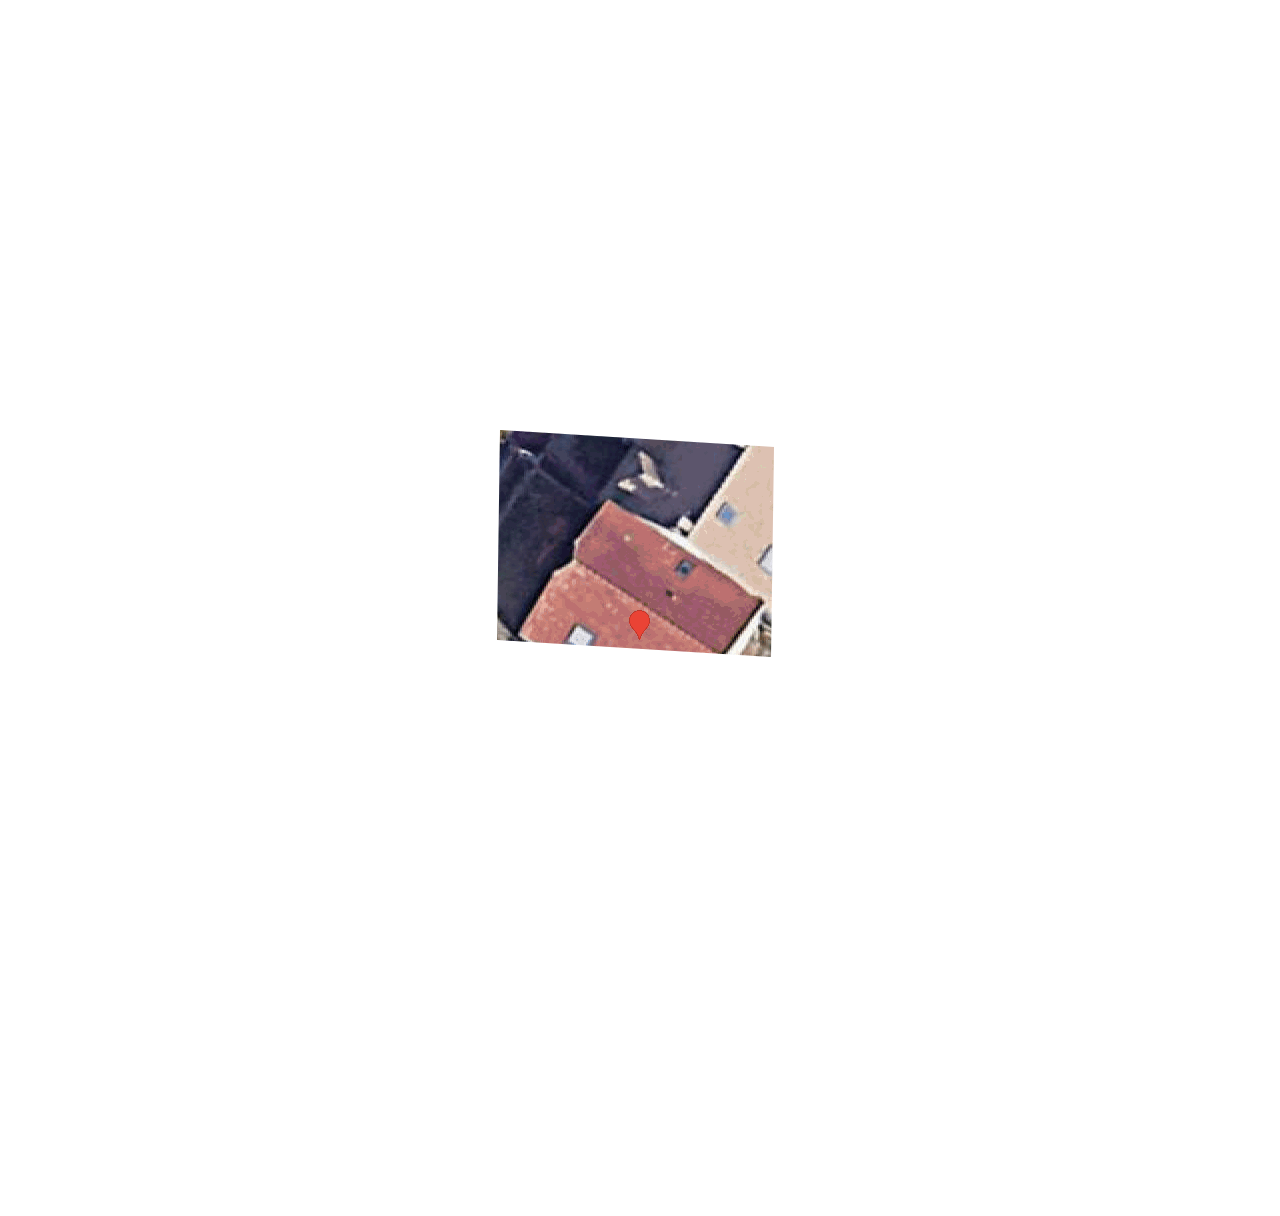
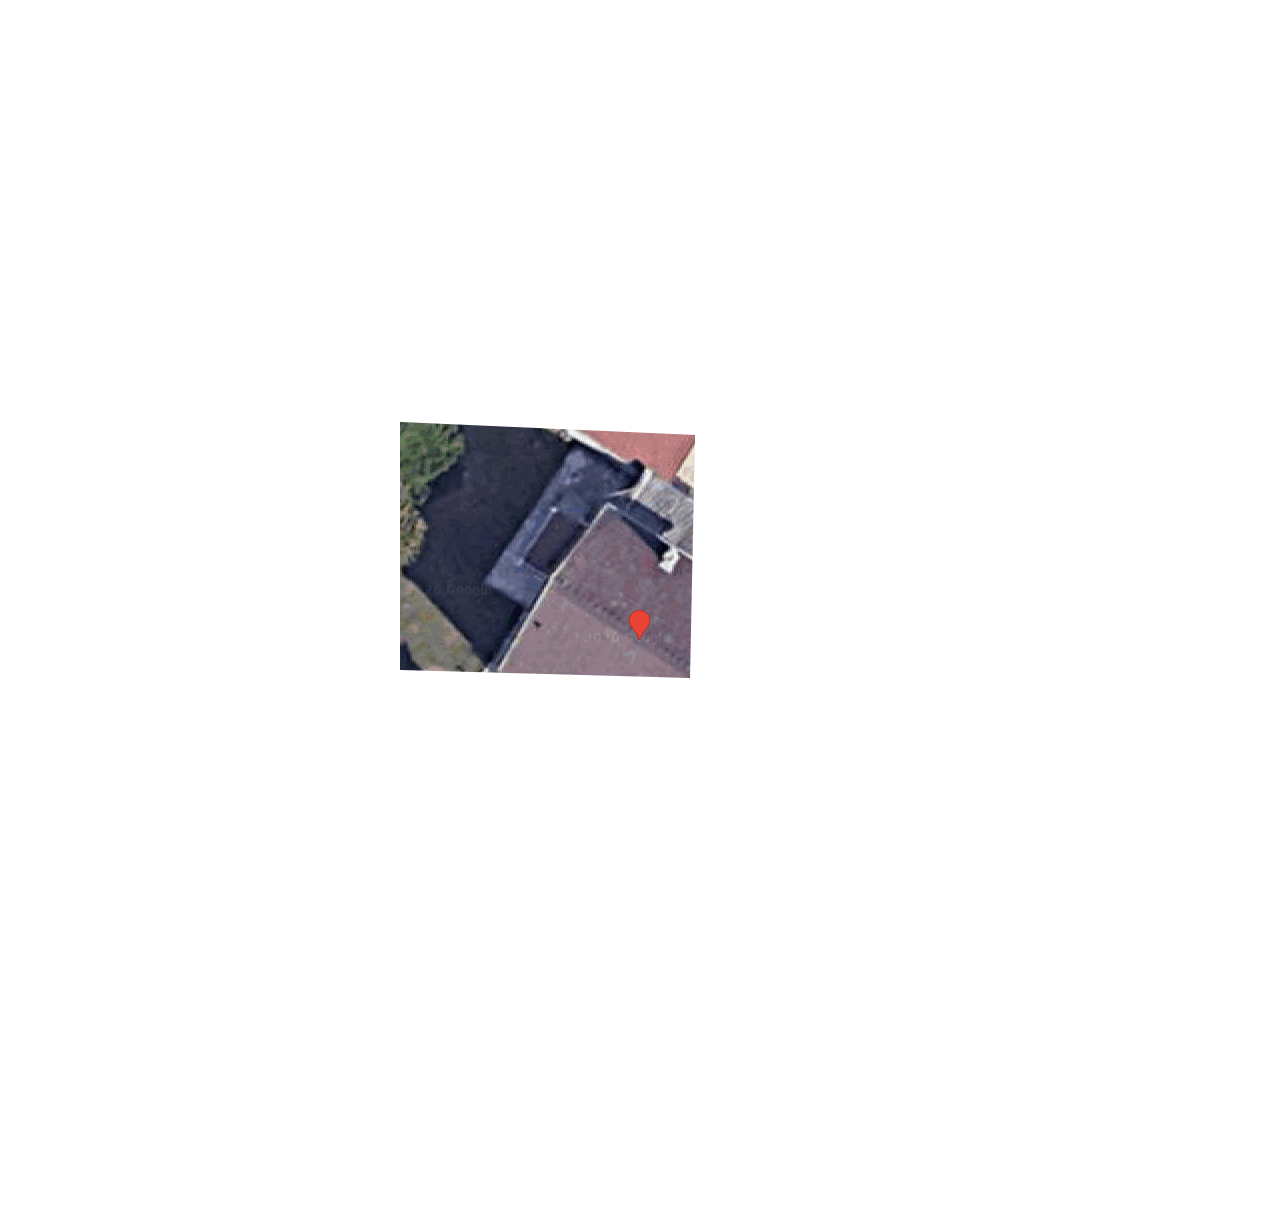
feat: update generated assets and refine roof analysis logic

Changed region(s): [[0.3125, 0.3438, 0.625, 0.5625]]

diff --git a/src/lib/house-generator.ts b/src/lib/house-generator.ts
@@ -116,39 +116,18 @@ export async function generateHouse(input: GenerateInput): Promise<GenerateResul
     }
   }
 
-  // ── Gemini Vision analysis ──
+  // ── Gemini Vision analysis (TWO steps) ──
+  // Step 1: detect the roof footprint in the top-down image only.
+  // Step 2: read roof type / slope / heights from the 3D oblique image,
+  //         given the polygon found in step 1 as ground truth.
   const metresPerPixel =
     (156543.03392 * Math.cos((input.lat * Math.PI) / 180)) / Math.pow(2, zoom) / SCALE;
 
-  const promptLines = [
-    'You are given ONE or TWO satellite views of the same building.',
-    'Image #1 is a strict TOP-DOWN satellite image, with a red MARKER PIN at the centre on the target roof.',
-  ];
-  if (tiltedBuf) {
-    promptLines.push(
-      'Image #2 is a 3D OBLIQUE view (~60° tilt) of the SAME building — use it to read roof slopes, ridges, and heights, then map them back onto the top-down outline.',
-    );
-  }
-  promptLines.push(
-    `The TOP-DOWN image is ${W}x${H} pixels. Around the centre, one pixel ≈ ${metresPerPixel.toFixed(3)} m on the ground.`,
-    'Identify ONLY the roof directly under the red marker pin (ignore neighbouring roofs).',
-    'Return ALL coordinates in TOP-DOWN image pixel space (image #1).',
-    'Return JSON:',
-    '{',
-    '  "bbox": { "x": <int>, "y": <int>, "width": <int>, "height": <int> },',
-    '  "footprintPx": [[x,y], [x,y], ...],   // 4-8 polygon vertices outlining the roof, clockwise, hugging the eaves',
-    '  "roofType": "flat" | "gable" | "hip" | "pyramid" | "shed",',
-    '  "ridgeAzimuthDeg": <int 0-359>,       // 0 = north, 90 = east. Direction the ridge runs.',
-    '  "estWallHeightM": <number>,            // 2.5-9 m typical residential',
-    '  "estRoofHeightM": <number>,            // ridge height above eaves; 0 if flat',
-    '  "confidence": <0..1>',
-    '}',
-    '',
-    'Return JSON only, no markdown fence, no prose.',
-  );
-  const prompt = promptLines.join('\n');
-
-  const callGemini = async (model: string) => {
+  const callGemini = async (
+    model: string,
+    prompt: string,
+    images: Buffer[],
+  ): Promise<{ status: number; text: string }> => {
     const r = await fetch(
       `https://generativelanguage.googleapis.com/v1beta/models/${model}:generateContent?key=${geminiKey}`,
       {
@@ -160,22 +139,9 @@ export async function generateHouse(input: GenerateInput): Promise<GenerateResul
               role: 'user',
               parts: [
                 { text: prompt },
-                {
-                  inline_data: {
-                    mime_type: 'image/png',
-                    data: cropped.toString('base64'),
-                  },
-                },
-                ...(tiltedBuf
-                  ? [
-                      {
-                        inline_data: {
-                          mime_type: 'image/png',
-                          data: tiltedBuf.toString('base64'),
-                        },
-                      },
-                    ]
-                  : []),
+                ...images.map((b) => ({
+                  inline_data: { mime_type: 'image/png', data: b.toString('base64') },
+                })),
               ],
             },
           ],
@@ -183,30 +149,61 @@ export async function generateHouse(input: GenerateInput): Promise<GenerateResul
         }),
       },
     );
-    return { status: r.status, json: (await r.json()) as Record<string, unknown> };
+    const json = (await r.json()) as {
+      candidates?: Array<{ content?: { parts?: Array<{ text?: string }> } }>;
+    };
+    const text = json.candidates?.[0]?.content?.parts?.[0]?.text ?? '';
+    return { status: r.status, text };
   };
 
-  let analysis: RoofAnalysis | null = null;
-  for (const model of ['gemini-2.5-flash', 'gemini-2.5-flash-lite', 'gemini-2.0-flash']) {
-    const { status, json } = await callGemini(model);
-    if (status !== 200) continue;
-    const candidates = (json as { candidates?: Array<{ content?: { parts?: Array<{ text?: string }> } }> })
-      .candidates;
-    const text = candidates?.[0]?.content?.parts?.[0]?.text ?? '';
+  const tryParse = <T,>(s: string): T | null => {
     try {
-      analysis = JSON.parse(text.trim().replace(/^```json|```$/g, '').trim()) as RoofAnalysis;
-      break;
+      return JSON.parse(s.trim().replace(/^```json|```$/g, '').trim()) as T;
     } catch {
-      // try next model
+      return null;
+    }
+  };
+
+  const MODELS = ['gemini-2.5-flash', 'gemini-2.5-flash-lite', 'gemini-2.0-flash'];
+
+  // ── STEP 1 — roof detection (top-down only) ──
+  const detectPrompt = [
+    'You are given a strict TOP-DOWN satellite image of a residential area.',
+    `Image is ${W}x${H} pixels. A red MARKER PIN sits at the centre on the target roof.`,
+    `Around the centre, one pixel ≈ ${metresPerPixel.toFixed(3)} m on the ground.`,
+    '',
+    'TASK: detect ONLY the roof directly under the red marker pin (ignore neighbouring roofs).',
+    'Trace its outline tightly along the eaves with 4-8 vertices, clockwise.',
+    '',
+    'Return JSON only:',
+    '{',
+    '  "bbox": { "x": <int>, "y": <int>, "width": <int>, "height": <int> },',
+    '  "footprintPx": [[x,y], [x,y], ...],',
+    '  "confidence": <0..1>',
+    '}',
+  ].join('\n');
+
+  interface DetectResult {
+    bbox: RoofAnalysis['bbox'];
+    footprintPx: Array<[number, number]>;
+    confidence: number;
+  }
+
+  let detect: DetectResult | null = null;
+  for (const model of MODELS) {
+    const { status, text } = await callGemini(model, detectPrompt, [cropped]);
+    if (status !== 200) continue;
+    const parsed = tryParse<DetectResult>(text);
+    if (parsed && Array.isArray(parsed.footprintPx) && parsed.footprintPx.length >= 3) {
+      detect = parsed;
+      break;
     }
   }
 
-  if (!analysis || !Array.isArray(analysis.footprintPx) || analysis.footprintPx.length < 3) {
-    // Synthetic fallback so the pipeline still emits a GLB (rate-limited or
-    // an empty/garbage AI response).
+  if (!detect) {
     const cxImg = W / 2, cyImg = H / 2;
     const halfW = 90, halfH = 60;
-    analysis = {
+    detect = {
       bbox: { x: cxImg - halfW, y: cyImg - halfH, width: halfW * 2, height: halfH * 2 },
       footprintPx: [
         [cxImg - halfW, cyImg - halfH],
@@ -214,14 +211,71 @@ export async function generateHouse(input: GenerateInput): Promise<GenerateResul
         [cxImg + halfW, cyImg + halfH],
         [cxImg - halfW, cyImg + halfH],
       ],
+      confidence: 0,
+    };
+  }
+
+  // ── STEP 2 — roof shape / heights (mostly from the 3D oblique view) ──
+  interface ShapeResult {
+    roofType: RoofAnalysis['roofType'];
+    ridgeAzimuthDeg: number;
+    estWallHeightM: number;
+    estRoofHeightM: number;
+    confidence: number;
+  }
+
+  let shape: ShapeResult | null = null;
+  if (tiltedBuf) {
+    const fpStr = detect.footprintPx.map(([x, y]) => `[${Math.round(x)},${Math.round(y)}]`).join(',');
+    const shapePrompt = [
+      'You are given TWO views of the SAME building:',
+      `  Image #1 — TOP-DOWN (${W}x${H} px) with a red marker pin on the target roof.`,
+      '  Image #2 — 3D OBLIQUE view (~60° tilt) of the SAME building. PRIMARY SOURCE for shape/heights.',
+      '',
+      `The roof footprint has already been detected in image #1: ${fpStr}.`,
+      'Use the OBLIQUE view to read roof slope, ridge orientation and heights, then map back to image #1 axes.',
+      '',
+      'Return JSON only:',
+      '{',
+      '  "roofType": "flat" | "gable" | "hip" | "pyramid" | "shed",',
+      '  "ridgeAzimuthDeg": <int 0-359>,    // 0=N, 90=E, in image-#1 axes',
+      '  "estWallHeightM": <number>,         // eaves above ground, 2.5-9 typical',
+      '  "estRoofHeightM": <number>,         // ridge height ABOVE eaves; 0 if flat',
+      '  "confidence": <0..1>',
+      '}',
+    ].join('\n');
+
+    for (const model of MODELS) {
+      const { status, text } = await callGemini(model, shapePrompt, [cropped, tiltedBuf]);
+      if (status !== 200) continue;
+      const parsed = tryParse<ShapeResult>(text);
+      if (parsed && typeof parsed.roofType === 'string') {
+        shape = parsed;
+        break;
+      }
+    }
+  }
+
+  if (!shape) {
+    shape = {
       roofType: 'gable',
       ridgeAzimuthDeg: 90,
       estWallHeightM: 4.5,
       estRoofHeightM: 2.5,
       confidence: 0,
-      fallback: true,
     };
   }
+
+  const analysis: RoofAnalysis = {
+    bbox: detect.bbox,
+    footprintPx: detect.footprintPx,
+    roofType: shape.roofType,
+    ridgeAzimuthDeg: shape.ridgeAzimuthDeg,
+    estWallHeightM: shape.estWallHeightM,
+    estRoofHeightM: shape.estRoofHeightM,
+    confidence: Math.min(detect.confidence, shape.confidence),
+    fallback: detect.confidence === 0 || shape.confidence === 0,
+  };
 
   // ── Build GLB ──
   const fp = analysis.footprintPx ?? [];

diff --git a/src/app/oblique/ObliqueCesium.tsx b/src/app/oblique/ObliqueCesium.tsx
@@ -72,11 +72,11 @@ export function ObliqueCesium() {
         }
         viewer.scene.primitives.add(tileset);
 
-        // Bird's-eye oblique: high enough to see the whole roof, ~60° down.
+        // Bird's-eye oblique: tight enough to see roof slope clearly.
         // pitch = -tiltDeg (60° below horizontal = steep oblique looking down)
-        // range = 200m gives good roof framing at zoom 19-20 equivalent.
-        const range = 200;
-        const aim = Cesium.Cartesian3.fromDegrees(lng, lat, 58);
+        // range = 110m frames a single residential roof at high detail.
+        const range = 110;
+        const aim = Cesium.Cartesian3.fromDegrees(lng, lat, 65);
         viewer.camera.lookAtTransform(Cesium.Matrix4.IDENTITY);
         viewer.camera.lookAt(
           aim,
